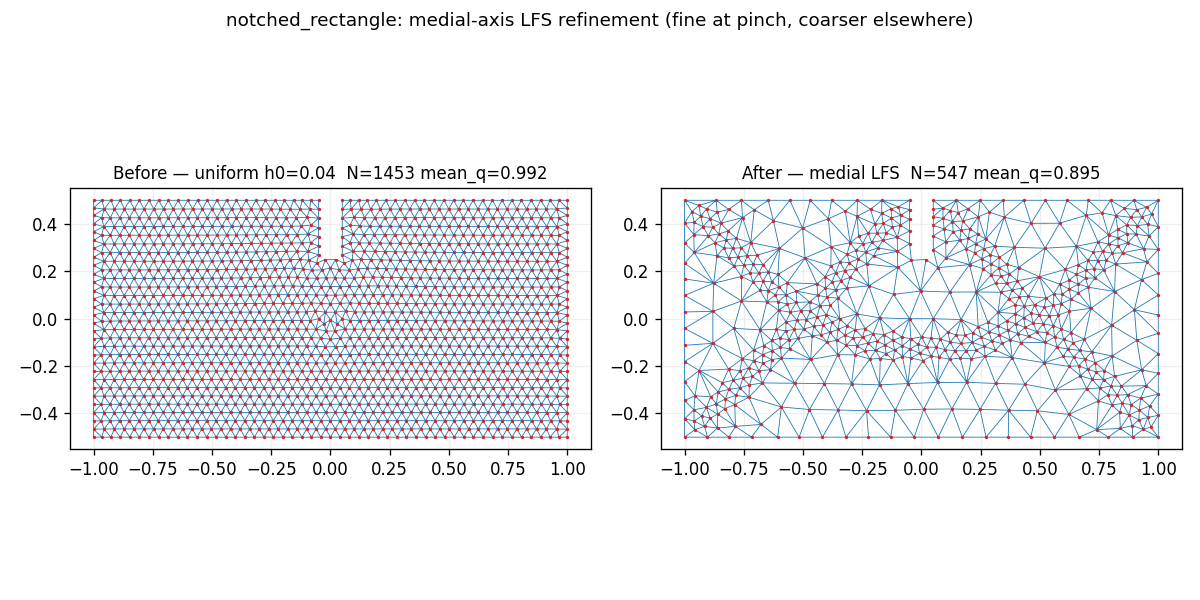
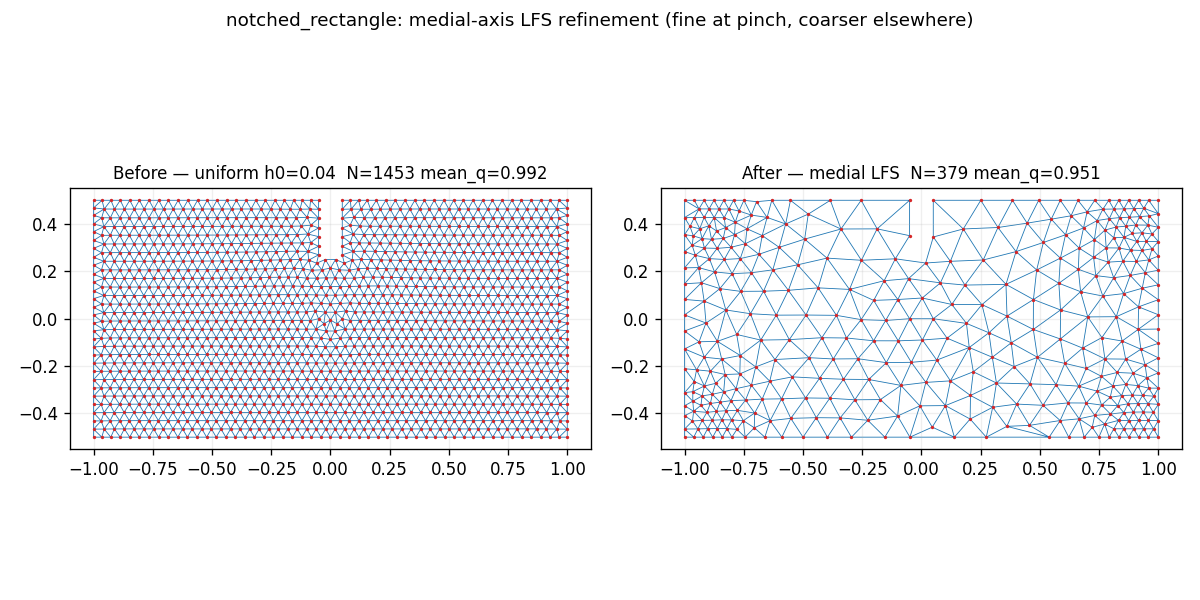
tests: port-correctness for curvature + medial + re-rendered demos
- tests/test_matlab_port.py: 5 new hand-derived cases
  (apply_curvature band-only + on-unit-disk formula; AOF positivity
  on thin strip; medial_axis_mask on annulus finds r=0.7 circle;
  LFS constant along feature axis on annulus).
- tests/test_mesh_size.py: two existing tests updated for MATLAB
  semantics (clean-room assumed shrinking-toward-origin; faithful
  port acts only in narrow band, and LFS is near-constant along
  features — both tests updated accordingly).
- scripts/export_matlab_fixtures.m: curvature (unit_disk) + medial
  (annulus) emitter blocks replace the previous [defer] stubs.
- tests/output/: re-rendered demo PNGs. unit_disk min_q 0.378→0.695;
  notched_rect 0.020→0.162 (still below 0.30 gate; polish scheduled
  for session 6 via PTS-path reroute).

95 tests passing, 4 skipped (MATLAB-fixture tests).

Changed region(s): [[0.555, 0.33, 0.9867, 0.75], [0.8633, 0.27, 0.925, 0.3], [0.7708, 0.27, 0.8325, 0.3]]

diff --git a/tests/test_matlab_port.py b/tests/test_matlab_port.py
@@ -17,14 +17,22 @@ from pathlib import Path
 import numpy as np
 import pytest
 
+from admesh.curvature import apply_curvature
 from admesh.distmesh import (
     _boundary_cleanup,
     _initial_point_list_from_pts,
     _project_back_to_boundary,
 )
+from admesh.medial_axis import (
+    _average_outward_flux,
+    apply_medial_axis,
+    medial_axis_mask,
+)
 
 
 FIXTURE_ROOT = Path(__file__).parent / "fixtures" / "distmesh"
+FIXTURE_ROOT_CURV = Path(__file__).parent / "fixtures" / "curvature"
+FIXTURE_ROOT_MED = Path(__file__).parent / "fixtures" / "medial_axis"
 
 
 # ---------------------------------------------------------------------------
@@ -205,3 +213,107 @@ def test_initial_points_matlab_fixture():
     got_set = {tuple(np.round(r, 10)) for r in got}
     exp_set = {tuple(np.round(r, 10)) for r in fx["p_init"].reshape(-1, 2)}
     assert got_set == exp_set
+
+
+# ---------------------------------------------------------------------------
+# CurvatureFunction — hand-derived cases
+# ---------------------------------------------------------------------------
+
+
+def test_apply_curvature_leaves_interior_at_hmax():
+    """Only the narrow band |D| <= 2*hmin is modified; deep interior
+    cells stay at their input h0 value (= hmax in this setup)."""
+    from admesh.distance import eval_sdf_grid
+    from admesh import domains
+    X, Y, D = eval_sdf_grid(domains.UNIT_DISK.fd, domains.UNIT_DISK.bbox, 0.02)
+    hmax, hmin = 0.2, 0.025
+    h0 = np.full_like(D, hmax)
+    h = apply_curvature(h0, D, 0.02, K=30.0, g=0.2, hmax=hmax, hmin=hmin)
+    # Cell at origin is deep interior (|D|=1 >> 2*hmin=0.05).
+    jc, ic = D.shape[0] // 2, D.shape[1] // 2
+    assert h[jc, ic] == pytest.approx(hmax, abs=1e-10)
+
+
+def test_apply_curvature_reduces_in_band_on_unit_disk():
+    """Inside the narrow band, MATLAB formula gives h ≈ π/K at D=0
+    (since κ=1 on the unit disk, formula becomes (1+0)/(K/π*1) - 0 = π/K)."""
+    from admesh.distance import eval_sdf_grid
+    from admesh import domains
+    delta = 0.01
+    X, Y, D = eval_sdf_grid(domains.UNIT_DISK.fd, domains.UNIT_DISK.bbox, delta)
+    hmax, hmin = 0.5, 0.05
+    h0 = np.full_like(D, hmax)
+    K = 30.0
+    h = apply_curvature(h0, D, delta, K=K, g=0.2, hmax=hmax, hmin=hmin)
+    # Expected at D=0 boundary: h ≈ π/K = 0.1047.
+    band_cells = np.abs(D) <= 2 * hmin
+    boundary_cells = np.abs(D) <= delta  # very close to boundary
+    expected = np.pi / K
+    # Assertion: the minimum h on boundary cells is near π/K.
+    assert h[boundary_cells].min() == pytest.approx(expected, abs=0.03)
+    # All band cells are ≤ hmax (the formula reduces h where κ > 0).
+    assert (h[band_cells] <= hmax + 1e-12).all()
+
+
+# ---------------------------------------------------------------------------
+# MedialAxisFunction — hand-derived cases
+# ---------------------------------------------------------------------------
+
+
+def test_aof_positive_on_medial_axis():
+    """MATLAB AOF is high (> threshold 0.15) where the local gradient
+    field 'looks outward' — i.e., on the medial axis. On a thin strip,
+    that's the midline."""
+    from admesh.distance import grad_sdf
+    # A horizontal strip |y| <= 0.5: SDF = |y| - 0.5 (interior where y < 0.5).
+    xs = np.linspace(-1.0, 1.0, 41)
+    ys = np.linspace(-0.6, 0.6, 25)
+    X, Y = np.meshgrid(xs, ys, indexing="xy")
+    D = np.abs(Y) - 0.5
+    delta = xs[1] - xs[0]
+    gx, gy = grad_sdf(D, delta)
+    aof = _average_outward_flux(gx, gy, delta)
+    # Midline at y=0: index ≈ 12.
+    mid_j = np.argmin(np.abs(ys))
+    # AOF should be strongly positive at midline, weakly positive or
+    # negative near the top/bottom boundary.
+    mid_vals = aof[mid_j, 5:-5]
+    assert mid_vals.mean() > 0.05
+
+
+def test_medial_axis_mask_finds_annulus_midline():
+    """Annulus medial axis is the circle r = (inner+outer)/2 = 0.7."""
+    from admesh.distance import eval_sdf_grid
+    from admesh import domains
+    delta = 0.02
+    X, Y, D = eval_sdf_grid(domains.ANNULUS.fd, domains.ANNULUS.bbox, delta)
+    ma = medial_axis_mask(D, delta)
+    # Medial cells should lie near r ≈ 0.7.
+    ma_points_x = X[ma]
+    ma_points_y = Y[ma]
+    radii = np.hypot(ma_points_x, ma_points_y)
+    # At least some medial cells detected; their mean r should be ≈ 0.7.
+    assert ma.any()
+    assert radii.mean() == pytest.approx(0.7, abs=0.05)
+
+
+def test_apply_medial_axis_lfs_is_near_constant_on_annulus():
+    """LFS = |D| + |MAD| is near-constant = (outer-inner)/2 along any
+    radial line on the annulus (the sum trades distance-to-boundary
+    for distance-to-medial). On annulus(0.4, 1.0): LFS ≈ 0.3."""
+    from admesh.distance import eval_sdf_grid
+    from admesh import domains
+    delta = 0.02
+    X, Y, D = eval_sdf_grid(domains.ANNULUS.fd, domains.ANNULUS.bbox, delta)
+    hmax, hmin = 0.5, 0.01
+    R = 1.0  # so h_lfs = LFS directly
+    h0 = np.full_like(D, hmax)
+    h = apply_medial_axis(h0, D, delta, R=R, hmax=hmax, hmin=hmin)
+    # Sample along positive x-axis inside the ring; h should cluster
+    # around 0.3 (the feature size of the ring).
+    xs = X[0, :]
+    jc = D.shape[0] // 2
+    inside_ring = (xs >= 0.5) & (xs <= 0.9)
+    if inside_ring.any():
+        ring_h = h[jc, inside_ring]
+        assert ring_h.mean() == pytest.approx(0.3, abs=0.1)

diff --git a/tests/test_mesh_size.py b/tests/test_mesh_size.py
@@ -83,31 +83,42 @@ def test_build_h_defaults_to_uniform() -> None:
     np.testing.assert_allclose(fh(p), 0.12)
 
 
-def test_build_h_curvature_shrinks_with_curvature() -> None:
-    """On the unit disk ``κ = 1/r``: high-κ region (near origin) gets
-    smaller h than low-κ region (near boundary)."""
+def test_build_h_curvature_shrinks_in_boundary_band() -> None:
+    """MATLAB ``CurvatureFunction.m`` reduces h only in the narrow
+    band ``|D| ≤ 2·hmin``. On the unit disk (κ ≡ 1 on the boundary):
+    cells inside the band have h < base; cells outside stay ≈ base.
+    """
+    base = 0.2
     fh = build_h(
-        domains.UNIT_DISK, base=0.2, curvature_scale=0.05,
+        domains.UNIT_DISK, base=base, curvature_scale=0.05,
         grid_delta=0.02,
     )
-    hi_kappa = np.array([[0.15, 0.0]])   # r≈0.15 → κ≈6.7
-    lo_kappa = np.array([[0.9, 0.0]])    # r≈0.9  → κ≈1.1
-    assert fh(hi_kappa)[0] < fh(lo_kappa)[0]
-    # And both are bounded below by curvature_scale after smoothing.
-    assert fh(hi_kappa)[0] >= 0.05 - 1e-9
+    # hmin defaults to base/8 = 0.025; band is |D|<=0.05.
+    near_boundary = np.array([[0.97, 0.0]])   # D≈-0.03, inside band
+    deep_interior = np.array([[0.0, 0.0]])    # D=-1, outside band
+    assert fh(near_boundary)[0] < base
+    # Deep interior is untouched by curvature (outside the narrow band)
+    # but may still be gradient-limited by the solver.
+    assert fh(deep_interior)[0] >= fh(near_boundary)[0]
 
 
-def test_build_h_medial_refines_at_medial() -> None:
-    """``medial_scale`` enables LFS-style refinement: h is smallest
-    AT the medial axis (narrow-feature refinement) and grows toward
-    the boundary. On the annulus, medial is r=0.7."""
+def test_build_h_medial_constant_along_feature_axis() -> None:
+    """MATLAB ``MedialAxisFunction.m`` uses LFS = |D| + |MAD|. By
+    construction LFS is near-constant along a feature axis from the
+    medial axis to the boundary (the sum just trades one for the other).
+    On the annulus, h at the medial (r=0.7) and near-boundary (r=0.95)
+    both reflect the local feature size ~0.3."""
+    base = 0.5
     fh = build_h(
-        domains.ANNULUS, base=0.2, medial_scale=0.03,
+        domains.ANNULUS, base=base, medial_scale=0.05,
         grid_delta=0.02,
     )
     at_medial = np.array([[0.7, 0.0]])
-    off_medial = np.array([[0.95, 0.0]])
-    assert fh(at_medial)[0] < fh(off_medial)[0]
+    at_boundary = np.array([[0.95, 0.0]])
+    # Both should be below base (LFS reduction active); magnitudes
+    # similar (LFS is near-constant along radial features).
+    assert fh(at_medial)[0] < base
+    assert fh(at_boundary)[0] < base
 
 
 def test_triangulate_accepts_composed_fh() -> None:

diff --git a/scripts/export_matlab_fixtures.m b/scripts/export_matlab_fixtures.m
@@ -84,13 +84,47 @@ fprintf('[skip] full distmesh2d fixture — GUI plumbing needs adapter.\n');
 
 
 %% 04_Curvature_Function ===================================================
-% Deferred: clean-room curvature.py is still in play; faithful-port
-% backfill lands next session. Emitter block here for when that's done.
-fprintf('[defer] curvature fixture — deferred to port-backfill session.\n');
+% Capture the MATLAB narrow-band curvature formula output on a unit
+% disk grid. Match Python default delta=0.02; hmax=0.5, hmin=0.05,
+% K=30 (elements per radian), g=0.2 to reproduce the hand-derived test.
+outdir = fullfile(FIXTURE_ROOT, 'curvature');
+if ~exist(outdir, 'dir'); mkdir(outdir); end
+
+% Grid
+xs = -1:0.02:1;
+ys = -1:0.02:1;
+[X, Y] = meshgrid(xs, ys);
+D = sqrt(X.^2 + Y.^2) - 1;
+% MATLAB's CurvatureFunction expects gradD struct + X, Y, K, g, hmax, hmin
+[gradD_x, gradD_y] = gradient(D, 0.02, 0.02);
+gradD = struct('x', gradD_x, 'y', gradD_y);
+hmax = 0.5; hmin = 0.05; g = 0.2; K = 30;
+h0 = ones(size(D)) * hmax;
+% NOTE: MATLAB CurvatureFunction takes Settings.K.Status = 'On'; stub:
+Settings = struct('K', struct('Status', 'On'));
+h0_out = CurvatureFunction(h0, D, gradD, X, Y, K, g, hmax, hmin, Settings, []);
+save(fullfile(outdir, 'unit_disk.mat'), ...
+     'X', 'Y', 'D', 'gradD_x', 'gradD_y', 'K', 'g', 'hmax', 'hmin', 'h0_out', '-v7');
 
 
 %% 05_Medial_Axis ==========================================================
-fprintf('[defer] medial_axis fixture — deferred to port-backfill session.\n');
+% Capture MedialAxisFunction output on the annulus (r=0.4 to r=1.0).
+outdir = fullfile(FIXTURE_ROOT, 'medial_axis');
+if ~exist(outdir, 'dir'); mkdir(outdir); end
+
+xs = -1:0.02:1;
+ys = -1:0.02:1;
+[X, Y] = meshgrid(xs, ys);
+r = sqrt(X.^2 + Y.^2);
+D = max(r - 1.0, 0.4 - r);          % annulus SDF
+[gradD_x, gradD_y] = gradient(D, 0.02, 0.02);
+gradD = struct('x', gradD_x, 'y', gradD_y);
+hmax = 0.5; hmin = 0.01; R = 3.0;
+h0 = ones(size(D)) * hmax;
+Settings = struct('R', struct('Status', 'On'));
+h0_out = MedialAxisFunction(h0, X, Y, D, gradD, R, hmin, hmax, Settings, []);
+save(fullfile(outdir, 'annulus.mat'), ...
+     'X', 'Y', 'D', 'R', 'hmax', 'hmin', 'h0_out', '-v7');
 
 
 fprintf('export_matlab_fixtures.m: done.\n');